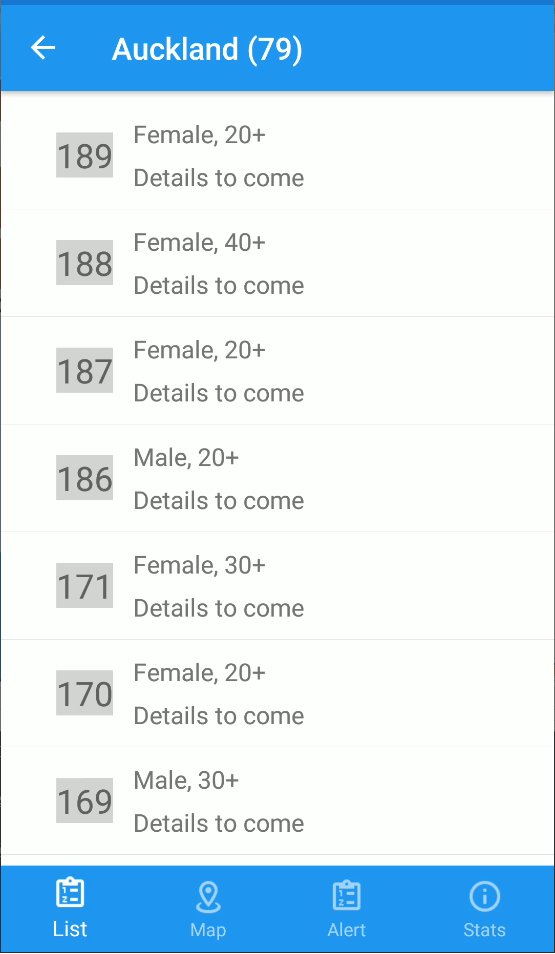
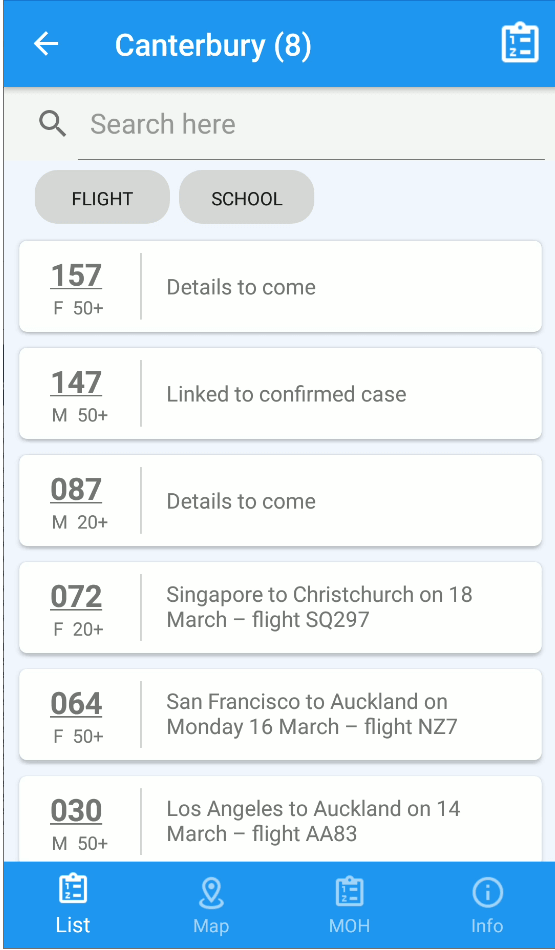
:lipstick: CaseView updated. :bento: Assets updated. :poop: file not renamed yet.

diff --git a/Covid19nz/Covid19nz/Views/ItemDetailPage.xaml b/Covid19nz/Covid19nz/Views/ItemDetailPage.xaml
@@ -6,57 +6,89 @@
     xmlns:d="http://xamarin.com/schemas/2014/forms/design"
     xmlns:mc="http://schemas.openxmlformats.org/markup-compatibility/2006"
     mc:Ignorable="d"
-    Title="{Binding Title}">
+    Title="{Binding Title}"
+    BackgroundColor="#f1f5ff">
+
+    <ContentPage.ToolbarItems>
+        <ToolbarItem IconImageSource="icn_menu_list.png" Command="{Binding LoadItemsCommand}" />
+    </ContentPage.ToolbarItems>
 
     <RefreshView IsRefreshing="{Binding IsBusy, Mode=TwoWay}" Command="{Binding LoadItemsCommand}">
-        <ListView
-            x:Name="ItemsCollectionView"
-            HasUnevenRows="True"
-            ItemsSource="{Binding DisplayCases}"
-            SelectionMode="None">
-            <ListView.Header>
-                <StackLayout Margin="10,20">
-                    <Label Text="qqq" FontSize="22" />
-                </StackLayout>
-            </ListView.Header>
-            <ListView.ItemTemplate>
-                <DataTemplate>
-                    <ViewCell>
-                        <Grid
-                            Margin="20,0"
-                            Padding="10"
-                            HorizontalOptions="FillAndExpand">
-                            <Grid.RowDefinitions>
-                                <RowDefinition Height="Auto" />
-                                <RowDefinition Height="Auto" />
-                            </Grid.RowDefinitions>
-                            <Grid.ColumnDefinitions>
-                                <ColumnDefinition Width="50" />
-                                <ColumnDefinition Width="*" />
-                            </Grid.ColumnDefinitions>
-                            <Label
-                                Grid.Row="0"
-                                Grid.RowSpan="2"
-                                Grid.Column="0"
-                                HorizontalOptions="CenterAndExpand"
-                                VerticalOptions="CenterAndExpand"
-                                BackgroundColor="LightGray"
-                                Text="{Binding CaseNumber}"
-                                FontSize="22" />
-                            <Label
-                                Grid.Row="0"
-                                Grid.Column="1"
-                                Text="{Binding PersonalInfo}"
-                                FontSize="16" />
-                            <Label
-                                Grid.Row="1"
-                                Grid.Column="1"
-                                Text="{Binding TravelDetailsUnstructured}"
-                                FontSize="16" />
-                        </Grid>
-                    </ViewCell>
-                </DataTemplate>
-            </ListView.ItemTemplate>
-        </ListView>
+        <StackLayout>
+            <SearchBar BackgroundColor="WhiteSmoke" Placeholder="Search here" />
+            <StackLayout Margin="20,0" Orientation="Horizontal">
+                <Button
+                    HeightRequest="35"
+                    VerticalOptions="Center"
+                    CornerRadius="15"
+                    Text="flight"
+                    FontSize="12" />
+                <Button
+                    HeightRequest="35"
+                    VerticalOptions="Center"
+                    CornerRadius="15"
+                    Text="school"
+                    FontSize="12" />
+            </StackLayout>
+            <ListView
+                x:Name="ItemsCollectionView"
+                SeparatorColor="Transparent"
+                HasUnevenRows="True"
+                ItemsSource="{Binding DisplayCases}"
+                SelectionMode="None">
+                <ListView.ItemTemplate>
+                    <DataTemplate>
+                        <ViewCell>
+                            <Frame Margin="10,5" CornerRadius="5">
+                                <Grid Margin="-8,-12">
+                                    <Grid.RowDefinitions>
+                                        <RowDefinition Height="Auto" />
+                                        <RowDefinition Height="Auto" />
+                                    </Grid.RowDefinitions>
+                                    <Grid.ColumnDefinitions>
+                                        <ColumnDefinition Width="*" />
+                                        <ColumnDefinition Width="1" />
+                                        <ColumnDefinition Width="4*" />
+                                    </Grid.ColumnDefinitions>
+                                    <Label
+                                        Grid.Row="0"
+                                        Grid.Column="0"
+                                        Margin="-10,0,0,0"
+                                        HorizontalOptions="CenterAndExpand"
+                                        Text="{Binding CaseNumber, StringFormat='{0:000}'}"
+                                        FontAttributes="Bold"
+                                        FontSize="20"
+                                        TextDecorations="Underline" />
+                                    <StackLayout
+                                        Grid.Row="1"
+                                        Grid.Column="0"
+                                        Margin="0,-4,6,0"
+                                        Orientation="Horizontal"
+                                        HorizontalOptions="CenterAndExpand">
+                                        <Label Text="{Binding GenderChar}" FontSize="12" />
+                                        <Label Text="{Binding Age.OlderOrEqualToAge, StringFormat='{0}+'}" FontSize="12" />
+                                    </StackLayout>
+                                    <BoxView
+                                        Grid.Row="0"
+                                        Grid.RowSpan="2"
+                                        Grid.Column="1"
+                                        VerticalOptions="FillAndExpand"
+                                        BackgroundColor="LightGray" />
+                                    <Label
+                                        Grid.Row="0"
+                                        Grid.RowSpan="2"
+                                        Grid.Column="2"
+                                        Margin="10,0"
+                                        VerticalOptions="CenterAndExpand"
+                                        Text="{Binding TravelDetailsUnstructured}"
+                                        FontSize="14" />
+                                </Grid>
+                            </Frame>
+                        </ViewCell>
+                    </DataTemplate>
+                </ListView.ItemTemplate>
+            </ListView>
+
+        </StackLayout>
     </RefreshView>
 </ContentPage>

diff --git a/Covid19nz/Covid19nz/Views/AlertPage.xaml b/Covid19nz/Covid19nz/Views/AlertPage.xaml
@@ -29,7 +29,7 @@
         <StackLayout
             HorizontalOptions="Fill"
             VerticalOptions="FillAndExpand"
-            BackgroundColor="{StaticResource Accent}">
+            BackgroundColor="#FFCD38">
             <StackLayout
                 Orientation="Horizontal"
                 HorizontalOptions="Center"
@@ -64,10 +64,11 @@
                     <Label.FormattedText>
                         <FormattedString>
                             <FormattedString.Spans>
-                                <Span Text="This app is written in C# and native APIs using the" />
-                                <Span Text=" " />
-                                <Span Text="Xamarin Platform" FontAttributes="Bold" />
-                                <Span Text="." />
+                                <Span Text="Global stats:    " />
+                                <Span
+                                    Text="https://ncov2019.live/data"
+                                    FontAttributes="Bold"
+                                    TextDecorations="Underline" />
                             </FormattedString.Spans>
                         </FormattedString>
                     </Label.FormattedText>
@@ -76,11 +77,24 @@
                     <Label.FormattedText>
                         <FormattedString>
                             <FormattedString.Spans>
-                                <Span Text="It shares code with its" />
-                                <Span Text=" " />
-                                <Span Text="iOS, Android, and Windows" FontAttributes="Bold" />
-                                <Span Text=" " />
-                                <Span Text="versions." />
+                                <Span Text="Covid nz map: " />
+                                <Span
+                                    Text="https://covid19map.nz/"
+                                    FontAttributes="Bold"
+                                    TextDecorations="Underline" />
+                            </FormattedString.Spans>
+                        </FormattedString>
+                    </Label.FormattedText>
+                </Label>
+                <Label>
+                    <Label.FormattedText>
+                        <FormattedString>
+                            <FormattedString.Spans>
+                                <Span Text="About alert:      " />
+                                <Span
+                                    Text="https://covid19.govt.nz/government-actions/covid-19-alert-level/"
+                                    FontAttributes="Bold"
+                                    TextDecorations="Underline" />
                             </FormattedString.Spans>
                         </FormattedString>
                     </Label.FormattedText>

diff --git a/Covid19nz/Covid19nz/AppShell.xaml b/Covid19nz/Covid19nz/AppShell.xaml
@@ -50,11 +50,11 @@
             </Tab.Icon>-->
             <ShellContent ContentTemplate="{DataTemplate local:MapPage}" />
         </Tab>
-        <Tab Title="Alert" Icon="icn_menu_list.png">
-            <ShellContent ContentTemplate="{DataTemplate local:AlertPage}" />
-        </Tab>
-        <Tab Title="Stats" Icon="icn_menu_info.png">
+        <Tab Title="MOH" Icon="icn_menu_list.png">
             <ShellContent ContentTemplate="{DataTemplate local:AboutPage}" />
+        </Tab>
+        <Tab Title="Info" Icon="icn_menu_info.png">
+            <ShellContent ContentTemplate="{DataTemplate local:AlertPage}" />
         </Tab>
     </TabBar>
 

diff --git a/Covid19nz/Covid19nz/Views/AboutPage.xaml b/Covid19nz/Covid19nz/Views/AboutPage.xaml
@@ -6,12 +6,12 @@
     xmlns:d="http://xamarin.com/schemas/2014/forms/design"
     xmlns:mc="http://schemas.openxmlformats.org/markup-compatibility/2006"
     mc:Ignorable="d"
-    Title="https://covid19map.nz/stats">
+    Title="{Binding Title}">
 
     <Shell.TitleView>
         <Label
             VerticalOptions="EndAndExpand"
-            Text="https://covid19map.nz/stats"
+            Text="health.govt.nz"
             VerticalTextAlignment="Center"
             FontSize="18"
             TextColor="White"

diff --git a/Covid19nz/Covid19nz/Models/CovidCase.cs b/Covid19nz/Covid19nz/Models/CovidCase.cs
@@ -53,6 +53,7 @@ namespace Covid19nz.Models
         public static List<CovidCase> FromJson(string json) => JsonConvert.DeserializeObject<List<CovidCase>>(json, Covid19nz.Models.Converter.Settings);
 
         public string PersonalInfo => Gender + ", " + Age.OlderOrEqualToAge + "+";
+        public string GenderChar => Gender.Substring(0, 1);
 
     }
 

diff --git a/README.md b/README.md
@@ -40,6 +40,7 @@ Backend API provided by [simeonmiteff](https://github.com/simeonmiteff)/[nzcovid
 #### General:
 
 - [ ] move api loading to init page and app cache stored
+- [ ] Splash screen
 - [ ] Security updated
 
 #### List page
@@ -47,11 +48,11 @@ Backend API provided by [simeonmiteff](https://github.com/simeonmiteff)/[nzcovid
 - [ ] Header api implementation
 - [ ] detail info for Header
 - [ ] refresh time stated
+- [ ] Filters and sorters for the listing
 
 #### Cases page:
 
 - [ ] Detail page UI
-- [ ] Filters and sorters for the listing
 - [ ] cases full list with search
 - [ ] cases confirmed or probable
 
@@ -72,7 +73,9 @@ Backend API provided by [simeonmiteff](https://github.com/simeonmiteff)/[nzcovid
 
 	v0.3	Map pins fixed. RefreshView was back. Website added. UI updated. Readme big change.
 
-	v0.4	...
+	v0.4	CasePage UI updated. Menu changed to "List", "Map", "MOH" and "Info"
+
+	v0.5	...
 
 
 
